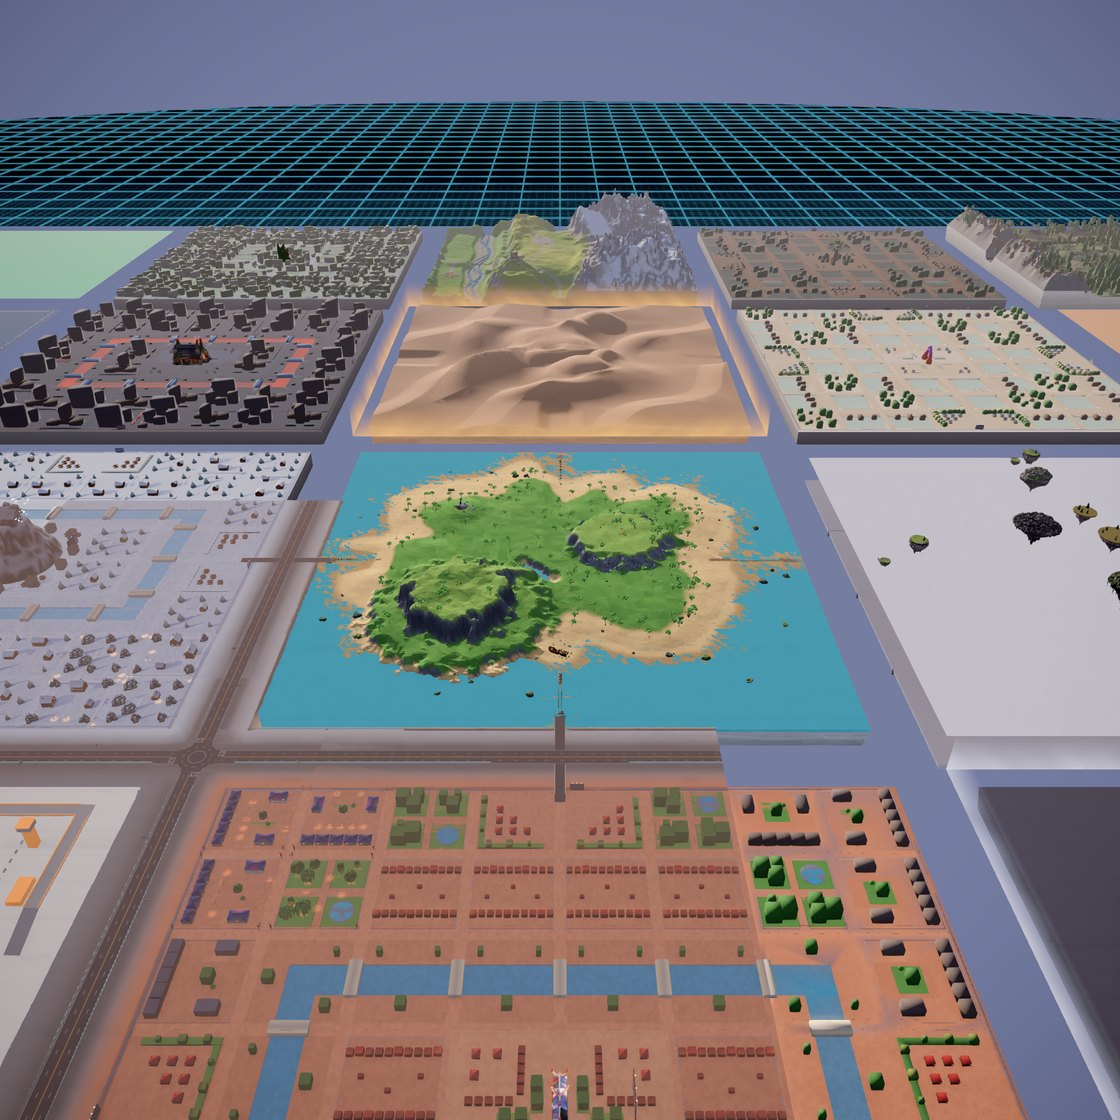
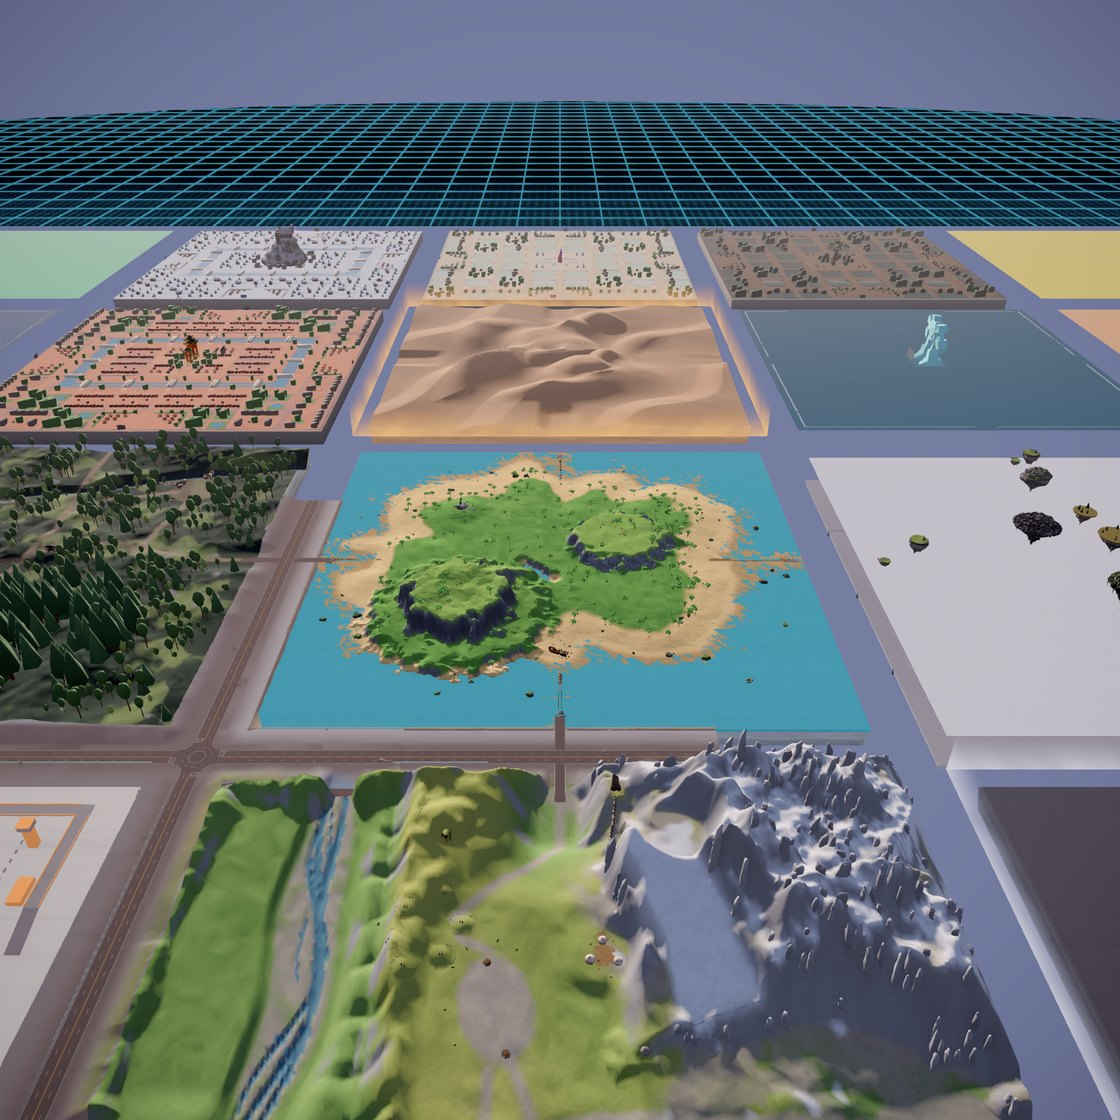
feat(title): re-shoot hero after the G993 restore
G993 (Jake 08:50): 109ef326d6 put the centre 3x3 back as before
G986 with the Showcase Template in Frostline's old (-1,-1), and
Frostline, Coral Drift and Lantern Bayou on the back line. The
title hero is re-shot at the shipped camera (eye 805/520/0 toward
Driftwood, 62 deg square, 43 deg landscape) on preview
109ef32-mw0quei5, desktop tier, muted.

Board art/main-menu-hero/round-10-g993/board.jpg: A the G986 hero,
B the re-shoot. Ruled B under G872 (the layout Jake gave).

Square 232,342 B, landscape 171,510 B (under 250 KB); native
launch image launch-1206x2622-6afc7dd7eee8.png (1,644,367 B, pin
refreshed). Boot byte/version tables carry only the three title
rows, patched from HEAD.

Assisted-by: Claude Code:claude-opus-5-5

diff --git a/index.html b/index.html
@@ -14,13 +14,13 @@
     <link rel="apple-touch-icon" sizes="180x180" href="/apple-touch-icon.png" />
     <!-- iPhone 16/17 Pro: iOS paints this before a standalone document exists.
          Rendered from this same shell by scripts/generate-title-launch.mjs. -->
-    <link rel="apple-touch-startup-image" href="/assets/title/launch-1206x2622-e825698d6bae.png" media="(device-width: 402px) and (device-height: 874px) and (-webkit-device-pixel-ratio: 3) and (orientation: portrait)" />
+    <link rel="apple-touch-startup-image" href="/assets/title/launch-1206x2622-6afc7dd7eee8.png" media="(device-width: 402px) and (device-height: 874px) and (-webkit-device-pixel-ratio: 3) and (orientation: portrait)" />
     <link rel="icon" type="image/png" href="/favicon.png" />
     <link rel="manifest" href="/manifest.webmanifest" />
     <script>
       // Plain launch: the shard selector is the first screen, with no world or loading panel underneath it.
       // BEGIN TITLE URLS
-      const titleAssetURLs = {"/assets/title/driftwood-isle-portrait.jpg":"/assets/title/driftwood-isle-portrait-e9d5c9aedd5c5920.jpg","/assets/title/launch-1206x2622-e825698d6bae.png":"/assets/title/launch-1206x2622-e825698d6bae.png","/assets/title/main-crossroads-landscape.jpg":"/assets/title/main-crossroads-landscape-768a762fa0f0475d.jpg","/assets/title/main-crossroads-square.jpg":"/assets/title/main-crossroads-square-2559d9ff9991a043.jpg","/assets/title/nalati-grasslands-portrait.jpg":"/assets/title/nalati-grasslands-portrait-5ac0c2e430a5a22b.jpg","/assets/title/nine-dragon-stack-portrait.jpg":"/assets/title/nine-dragon-stack-portrait-d92d65e333c1ccba.jpg","/assets/title/pine-hollow-portrait.jpg":"/assets/title/pine-hollow-portrait-30a60f74489265a0.jpg"};
+      const titleAssetURLs = {"/assets/title/driftwood-isle-portrait.jpg":"/assets/title/driftwood-isle-portrait-e9d5c9aedd5c5920.jpg","/assets/title/launch-1206x2622-6afc7dd7eee8.png":"/assets/title/launch-1206x2622-6afc7dd7eee8.png","/assets/title/main-crossroads-landscape.jpg":"/assets/title/main-crossroads-landscape-9437ac10c599548a.jpg","/assets/title/main-crossroads-square.jpg":"/assets/title/main-crossroads-square-24abf23d2606ae3f.jpg","/assets/title/nalati-grasslands-portrait.jpg":"/assets/title/nalati-grasslands-portrait-5ac0c2e430a5a22b.jpg","/assets/title/nine-dragon-stack-portrait.jpg":"/assets/title/nine-dragon-stack-portrait-d92d65e333c1ccba.jpg","/assets/title/pine-hollow-portrait.jpg":"/assets/title/pine-hollow-portrait-30a60f74489265a0.jpg"};
       // END TITLE URLS
       const homeParams = new URLSearchParams(location.search);
       // The environment flags select no level (src/bootRoute.ts keeps the same list): a launch with only them is the title.
@@ -68,9 +68,9 @@
       html.standalone #ws-top-edge { display: block; position: fixed; top: 0; left: 0; right: 0; height: 12px; z-index: 2147483647; background: rgba(5, 8, 16, 0.004); pointer-events: none; }
       .ws-launch { display: none; }
       html.title-first .ws-launch { position: fixed; inset: 0; z-index: 90; display: flex; flex-direction: column; justify-content: space-between; overflow: hidden; background: #0b1622; color: #eaf8ff; font-family: Rajdhani, system-ui, sans-serif; }
-      .ws-launch-hero { position: absolute; inset: 0; background: url('/assets/title/main-crossroads-landscape-768a762fa0f0475d.jpg') center / cover no-repeat; }
+      .ws-launch-hero { position: absolute; inset: 0; background: url('/assets/title/main-crossroads-landscape-9437ac10c599548a.jpg') center / cover no-repeat; }
       .ws-launch-brand { position: relative; margin: calc(24px + env(safe-area-inset-top, 0px)) 24px 0; font-size: 44px; font-weight: 700; line-height: 1; letter-spacing: .16em; text-shadow: 0 0 18px #8fe3ff73; }
-      @media (orientation: portrait) { .ws-launch-hero { top: 50%; bottom: auto; width: 100%; aspect-ratio: 1; transform: translateY(-50%); background-image: url('/assets/title/main-crossroads-square-2559d9ff9991a043.jpg'); } }
+      @media (orientation: portrait) { .ws-launch-hero { top: 50%; bottom: auto; width: 100%; aspect-ratio: 1; transform: translateY(-50%); background-image: url('/assets/title/main-crossroads-square-24abf23d2606ae3f.jpg'); } }
       @font-face{font-family:'JetBrains Mono';font-style:normal;font-weight:400;font-display:swap;src:url(/fonts/jetbrains-mono-cyrillic-ext.woff2) format('woff2');unicode-range:U+0460-052F, U+1C80-1C8A, U+20B4, U+2DE0-2DFF, U+A640-A69F, U+FE2E-FE2F}
       @font-face{font-family:'JetBrains Mono';font-style:normal;font-weight:400;font-display:swap;src:url(/fonts/jetbrains-mono-cyrillic.woff2) format('woff2');unicode-range:U+0301, U+0400-045F, U+0490-0491, U+04B0-04B1, U+2116}
       @font-face{font-family:'JetBrains Mono';font-style:normal;font-weight:400;font-display:swap;src:url(/fonts/jetbrains-mono-greek.woff2) format('woff2');unicode-range:U+0370-0377, U+037A-037F, U+0384-038A, U+038C, U+038E-03A1, U+03A3-03FF}

diff --git a/native.html b/native.html
@@ -14,12 +14,12 @@
     <link rel="apple-touch-icon" sizes="180x180" href="/apple-touch-icon.png" />
     <!-- iPhone 16/17 Pro: iOS paints this before a standalone document exists.
          Rendered from this same shell by scripts/generate-title-launch.mjs. -->
-    <link rel="apple-touch-startup-image" href="/assets/title/launch-1206x2622-e825698d6bae.png" media="(device-width: 402px) and (device-height: 874px) and (-webkit-device-pixel-ratio: 3) and (orientation: portrait)" />
+    <link rel="apple-touch-startup-image" href="/assets/title/launch-1206x2622-6afc7dd7eee8.png" media="(device-width: 402px) and (device-height: 874px) and (-webkit-device-pixel-ratio: 3) and (orientation: portrait)" />
     <link rel="icon" type="image/png" href="/favicon.png" />
     <script>
       // Plain launch: the shard selector is the first screen, with no world or loading panel underneath it.
       // BEGIN TITLE URLS
-      const titleAssetURLs = {"/assets/title/driftwood-isle-portrait.jpg":"/assets/title/driftwood-isle-portrait-e9d5c9aedd5c5920.jpg","/assets/title/launch-1206x2622-e825698d6bae.png":"/assets/title/launch-1206x2622-e825698d6bae.png","/assets/title/main-crossroads-landscape.jpg":"/assets/title/main-crossroads-landscape-768a762fa0f0475d.jpg","/assets/title/main-crossroads-square.jpg":"/assets/title/main-crossroads-square-2559d9ff9991a043.jpg","/assets/title/nalati-grasslands-portrait.jpg":"/assets/title/nalati-grasslands-portrait-5ac0c2e430a5a22b.jpg","/assets/title/nine-dragon-stack-portrait.jpg":"/assets/title/nine-dragon-stack-portrait-d92d65e333c1ccba.jpg","/assets/title/pine-hollow-portrait.jpg":"/assets/title/pine-hollow-portrait-30a60f74489265a0.jpg"};
+      const titleAssetURLs = {"/assets/title/driftwood-isle-portrait.jpg":"/assets/title/driftwood-isle-portrait-e9d5c9aedd5c5920.jpg","/assets/title/launch-1206x2622-6afc7dd7eee8.png":"/assets/title/launch-1206x2622-6afc7dd7eee8.png","/assets/title/main-crossroads-landscape.jpg":"/assets/title/main-crossroads-landscape-9437ac10c599548a.jpg","/assets/title/main-crossroads-square.jpg":"/assets/title/main-crossroads-square-24abf23d2606ae3f.jpg","/assets/title/nalati-grasslands-portrait.jpg":"/assets/title/nalati-grasslands-portrait-5ac0c2e430a5a22b.jpg","/assets/title/nine-dragon-stack-portrait.jpg":"/assets/title/nine-dragon-stack-portrait-d92d65e333c1ccba.jpg","/assets/title/pine-hollow-portrait.jpg":"/assets/title/pine-hollow-portrait-30a60f74489265a0.jpg"};
       // END TITLE URLS
       const homeParams = new URLSearchParams(location.search);
       // The environment flags select no level (src/bootRoute.ts keeps the same list): a launch with only them is the title.
@@ -67,9 +67,9 @@
       html.standalone #ws-top-edge { display: block; position: fixed; top: 0; left: 0; right: 0; height: 12px; z-index: 2147483647; background: rgba(5, 8, 16, 0.004); pointer-events: none; }
       .ws-launch { display: none; }
       html.title-first .ws-launch { position: fixed; inset: 0; z-index: 90; display: flex; flex-direction: column; justify-content: space-between; overflow: hidden; background: #0b1622; color: #eaf8ff; font-family: Rajdhani, system-ui, sans-serif; }
-      .ws-launch-hero { position: absolute; inset: 0; background: url('/assets/title/main-crossroads-landscape-768a762fa0f0475d.jpg') center / cover no-repeat; }
+      .ws-launch-hero { position: absolute; inset: 0; background: url('/assets/title/main-crossroads-landscape-9437ac10c599548a.jpg') center / cover no-repeat; }
       .ws-launch-brand { position: relative; margin: calc(24px + env(safe-area-inset-top, 0px)) 24px 0; font-size: 44px; font-weight: 700; line-height: 1; letter-spacing: .16em; text-shadow: 0 0 18px #8fe3ff73; }
-      @media (orientation: portrait) { .ws-launch-hero { top: 50%; bottom: auto; width: 100%; aspect-ratio: 1; transform: translateY(-50%); background-image: url('/assets/title/main-crossroads-square-2559d9ff9991a043.jpg'); } }
+      @media (orientation: portrait) { .ws-launch-hero { top: 50%; bottom: auto; width: 100%; aspect-ratio: 1; transform: translateY(-50%); background-image: url('/assets/title/main-crossroads-square-24abf23d2606ae3f.jpg'); } }
       @font-face{font-family:'JetBrains Mono';font-style:normal;font-weight:400;font-display:swap;src:url(/fonts/jetbrains-mono-cyrillic-ext.woff2) format('woff2');unicode-range:U+0460-052F, U+1C80-1C8A, U+20B4, U+2DE0-2DFF, U+A640-A69F, U+FE2E-FE2F}
       @font-face{font-family:'JetBrains Mono';font-style:normal;font-weight:400;font-display:swap;src:url(/fonts/jetbrains-mono-cyrillic.woff2) format('woff2');unicode-range:U+0301, U+0400-045F, U+0490-0491, U+04B0-04B1, U+2116}
       @font-face{font-family:'JetBrains Mono';font-style:normal;font-weight:400;font-display:swap;src:url(/fonts/jetbrains-mono-greek.woff2) format('woff2');unicode-range:U+0370-0377, U+037A-037F, U+0384-038A, U+038C, U+038E-03A1, U+03A3-03FF}

diff --git a/src/game/boot/versions.generated.ts b/src/game/boot/versions.generated.ts
@@ -1272,9 +1272,9 @@ export const ASSET_VERSIONS: Readonly<Record<string, string>> = {
   "/assets/tex/wood_trunk_wall/nor_gl_1k.jpg": 'fc6aab0a',
   "/assets/tex/wood_trunk_wall/nor_gl_1k.phone.webp": 'a70475f6',
   "/assets/title/driftwood-isle-portrait.jpg": 'e9d5c9ae',
-  "/assets/title/launch-1206x2622-e825698d6bae.png": 'e825698d',
-  "/assets/title/main-crossroads-landscape.jpg": '768a762f',
-  "/assets/title/main-crossroads-square.jpg": '2559d9ff',
+  "/assets/title/launch-1206x2622-6afc7dd7eee8.png": '6afc7dd7',
+  "/assets/title/main-crossroads-landscape.jpg": '9437ac10',
+  "/assets/title/main-crossroads-square.jpg": '24abf23d',
   "/assets/title/nalati-grasslands-portrait.jpg": '5ac0c2e4',
   "/assets/title/nine-dragon-stack-portrait.jpg": 'd92d65e3',
   "/assets/title/pine-hollow-portrait.jpg": '30a60f74',

diff --git a/src/game/boot/bytes.generated.ts b/src/game/boot/bytes.generated.ts
@@ -2218,9 +2218,9 @@ export const PUBLIC_BYTES = {
   "/assets/tex/wood_trunk_wall/nor_gl_1k.jpg": 138432,
   "/assets/tex/wood_trunk_wall/nor_gl_1k.phone.webp": 59412,
   "/assets/title/driftwood-isle-portrait.jpg": 50826,
-  "/assets/title/launch-1206x2622-e825698d6bae.png": 1642009,
-  "/assets/title/main-crossroads-landscape.jpg": 158181,
-  "/assets/title/main-crossroads-square.jpg": 237595,
+  "/assets/title/launch-1206x2622-6afc7dd7eee8.png": 1644367,
+  "/assets/title/main-crossroads-landscape.jpg": 171510,
+  "/assets/title/main-crossroads-square.jpg": 232342,
   "/assets/title/nalati-grasslands-portrait.jpg": 72112,
   "/assets/title/nine-dragon-stack-portrait.jpg": 77595,
   "/assets/title/pine-hollow-portrait.jpg": 52660,

diff --git a/art/main-menu-hero/round-10-g993/README.md b/art/main-menu-hero/round-10-g993/README.md
@@ -1,0 +1,21 @@
+# G993 · Title hero with the centre 3x3 restored
+
+[Labelled A / B board](board.jpg), iPhone portrait. G993 (Jake 08:50): G986's grid swap (5da5599c18) moved the centre
+3x3, and it must not. The fix forward is 109ef326d6: the centre as before G986, with one change.
+
+| | What | Camera |
+|---|---|---|
+| A | The G986 hero (64620db6c5): Night Market front centre, Pine and Nalati on the back row | eye (805, 520, 0) → Driftwood (0, 0, 0), 62° square, 43° landscape |
+| B | **Re-shoot after the restore (shipped, G872)** | the same |
+
+B's cells: Pine Hollow (0,1), Nalati (1,0), Night Market (-1,1), Driftwood, Sunscar, Far Reach, Nine (1,-1) and
+_template as before G986; the Showcase Template takes Frostline's old (-1,-1). The back line (x = -2) is Frostline
+(-2,1), Coral Drift (-2,0), Lantern Bayou (-2,-1); Mosslight (2,0) and Ember Forge (2,-1) are back behind the camera,
+Saltwind at (0,2), Patchwork at (-2,-2).
+
+Real canvas captures of preview `109ef32-mw0quei5`, desktop tier, muted:
+`node scripts/capture-main-menu-hero.mjs --round=6 --only=SQ-NE-b,LS-NE-b --shipped-framing --url=<preview>`.
+Shipped as the 1120 × 1120 square (232,342 B) and 1120 × 630 landscape (171,510 B); the native launch image is
+`launch-1206x2622-6afc7dd7eee8.png` (1,644,367 B) from `scripts/generate-title-launch.mjs`.
+
+**Ruling (G872):** B, the layout Jake gave; his pick overrides.
